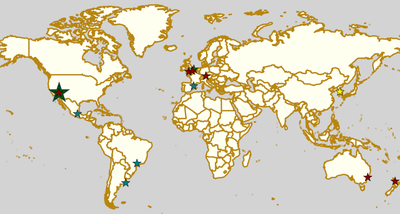
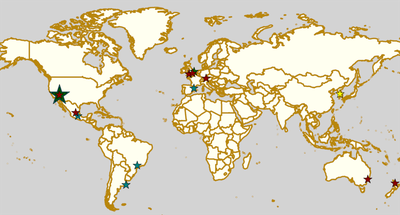
Late addition 20 July - Nymerias v Furiosas

diff --git a/output/posts/highlights/2019/weekendhighlights-20072019/index.html b/output/posts/highlights/2019/weekendhighlights-20072019/index.html
@@ -171,6 +171,14 @@ get themselves an actual webpage [we can help host one if you need help]).</p>
 <p><a class="reference external" href="https://www.instagram.com/fugazrollerderby/">Fugaz Roller Derby</a> host a fundraising Punk Rock &amp; Pizza event, woth an array of Mexican Punk, Death metal and Grindcore bands playing live music. This event raises funds for Fugaz' attendance at the 2019 Mexican D1 playoffs in Chihuahua (about which later in the week).</p>
 <p>Event starts: 1500 Saturday</p>
 <p>Venue: TONY EL GORDO, Mixtecas 499, Mexico City, Mexico</p>
+</div>
+<div class="section" id="sat-san-luis-mexico">
+<h2>Sat: San Luis, Mexico</h2>
+<p><a class="reference external" href="https://www.facebook.com/events/324396445102867/">[FACEBOOK LINK]</a>
+<a class="reference external" href="http://flattrackstats.com/bouts/110840/overview">[FTS LINK]</a></p>
+<p><a class="reference external" href="https://www.instagram.com/furiosas_rd_slp/">Furiosas Roller Derby</a> host the Nymerias for a bout, as the Mexican Champs approaches.</p>
+<p>Event starts: 1100 Saturday</p>
+<p>Venue: INPODE, Avenida Himno Nal 4000, San Luis, Mexico</p>
 <div class="section" id="special-edition-addition-rollercon">
 <h3>Special edition addition: ROLLERCON</h3>
 <p>Everyone is probably very aware that this week is Rollercon 2019, in Las Vegas, NV.

diff --git a/output/posts/highlights/2019/weekendhighlights-20072019/index.rst b/output/posts/highlights/2019/weekendhighlights-20072019/index.rst
@@ -243,6 +243,23 @@ Event starts: 1500 Saturday
 
 Venue: TONY EL GORDO, Mixtecas 499, Mexico City, Mexico
 
+Sat: San Luis, Mexico
+--------------------------------
+
+`[FACEBOOK LINK]`__
+`[FTS LINK]`__
+
+.. __: https://www.facebook.com/events/324396445102867/
+.. __: http://flattrackstats.com/bouts/110840/overview
+
+`Furiosas Roller Derby`_ host the Nymerias for a bout, as the Mexican Champs approaches.
+
+.. _Furiosas Roller Derby: https://www.instagram.com/furiosas_rd_slp/
+
+Event starts: 1100 Saturday
+
+Venue: INPODE, Avenida Himno Nal 4000, San Luis, Mexico
+
 
 Special edition addition: ROLLERCON
 =====================================

diff --git a/posts/highlights/2019/wknd-20July2019.rst b/posts/highlights/2019/wknd-20July2019.rst
@@ -243,6 +243,23 @@ Event starts: 1500 Saturday
 
 Venue: TONY EL GORDO, Mixtecas 499, Mexico City, Mexico
 
+Sat: San Luis, Mexico
+--------------------------------
+
+`[FACEBOOK LINK]`__
+`[FTS LINK]`__
+
+.. __: https://www.facebook.com/events/324396445102867/
+.. __: http://flattrackstats.com/bouts/110840/overview
+
+`Furiosas Roller Derby`_ host the Nymerias for a bout, as the Mexican Champs approaches.
+
+.. _Furiosas Roller Derby: https://www.instagram.com/furiosas_rd_slp/
+
+Event starts: 1100 Saturday
+
+Venue: INPODE, Avenida Himno Nal 4000, San Luis, Mexico
+
 
 Special edition addition: ROLLERCON
 =====================================
